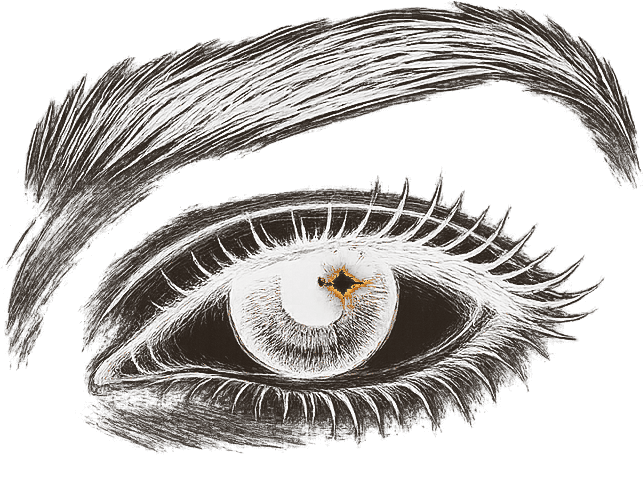
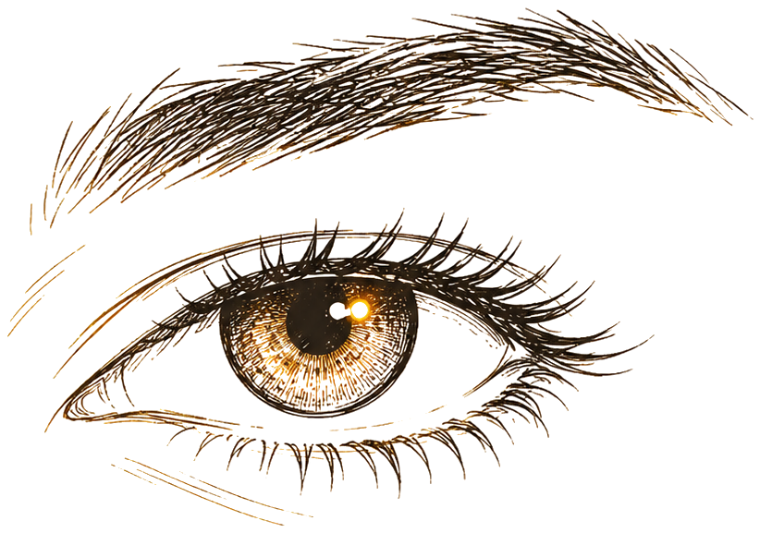
beeconworks: use the original eye artwork (dark linework on white)
Replace the earlier inverted eye (which read wrong) with the original
pencil illustration — dark linework, gold catchlight, on white — keyed to
transparent so it floats on the white For Bee band and its soft glow. No
color reversal. 0 JS errors.

Claude-Session: https://claude.ai/code/session_016Hpsi9Vd4gNskm1bfnqcc1

diff --git a/beeconworks/index.html b/beeconworks/index.html
@@ -48,8 +48,8 @@
 
   /* ── FOR BEE (light band, white-on-white) ── */
   .bee{background:#fff; text-align:center; padding:100px 28px;
-    background-image:radial-gradient(ellipse 54% 44% at 50% 38%, rgba(232,178,74,0.10), transparent 70%);}
-  .bee .eye{width:clamp(232px,58vw,368px); margin:0 auto 4px;}
+    background-image:radial-gradient(ellipse 58% 48% at 50% 42%, rgba(232,178,74,0.12), transparent 72%);}
+  .bee .eye{width:clamp(240px,60vw,384px); margin:0 auto 6px;}
   .bee .ded{max-width:520px; margin:22px auto 0;}
   .bee .ded p{font-family:var(--serif); font-size:clamp(18px,4.4vw,21px); line-height:1.6;
     color:var(--ink); margin-bottom:14px;}
@@ -103,7 +103,7 @@
 
 <!-- ── FOR BEE (light) ── -->
 <section class="bee">
-  <img class="eye" src="beecon-eye.png" alt="An illustrated eye with a warm light at its center" width="643" height="477">
+  <img class="eye" src="beecon-eye.png" alt="An illustrated eye with a warm light at its center" width="760" height="533">
   <div class="ded">
     <p>Beecon carries the name of <strong>Bee</strong>. The gold star in our mark is hers &mdash; the light left on for anyone still finding their way home. Every product we build is that light, kept burning.</p>
     <p class="forbee">For Bee.</p>
